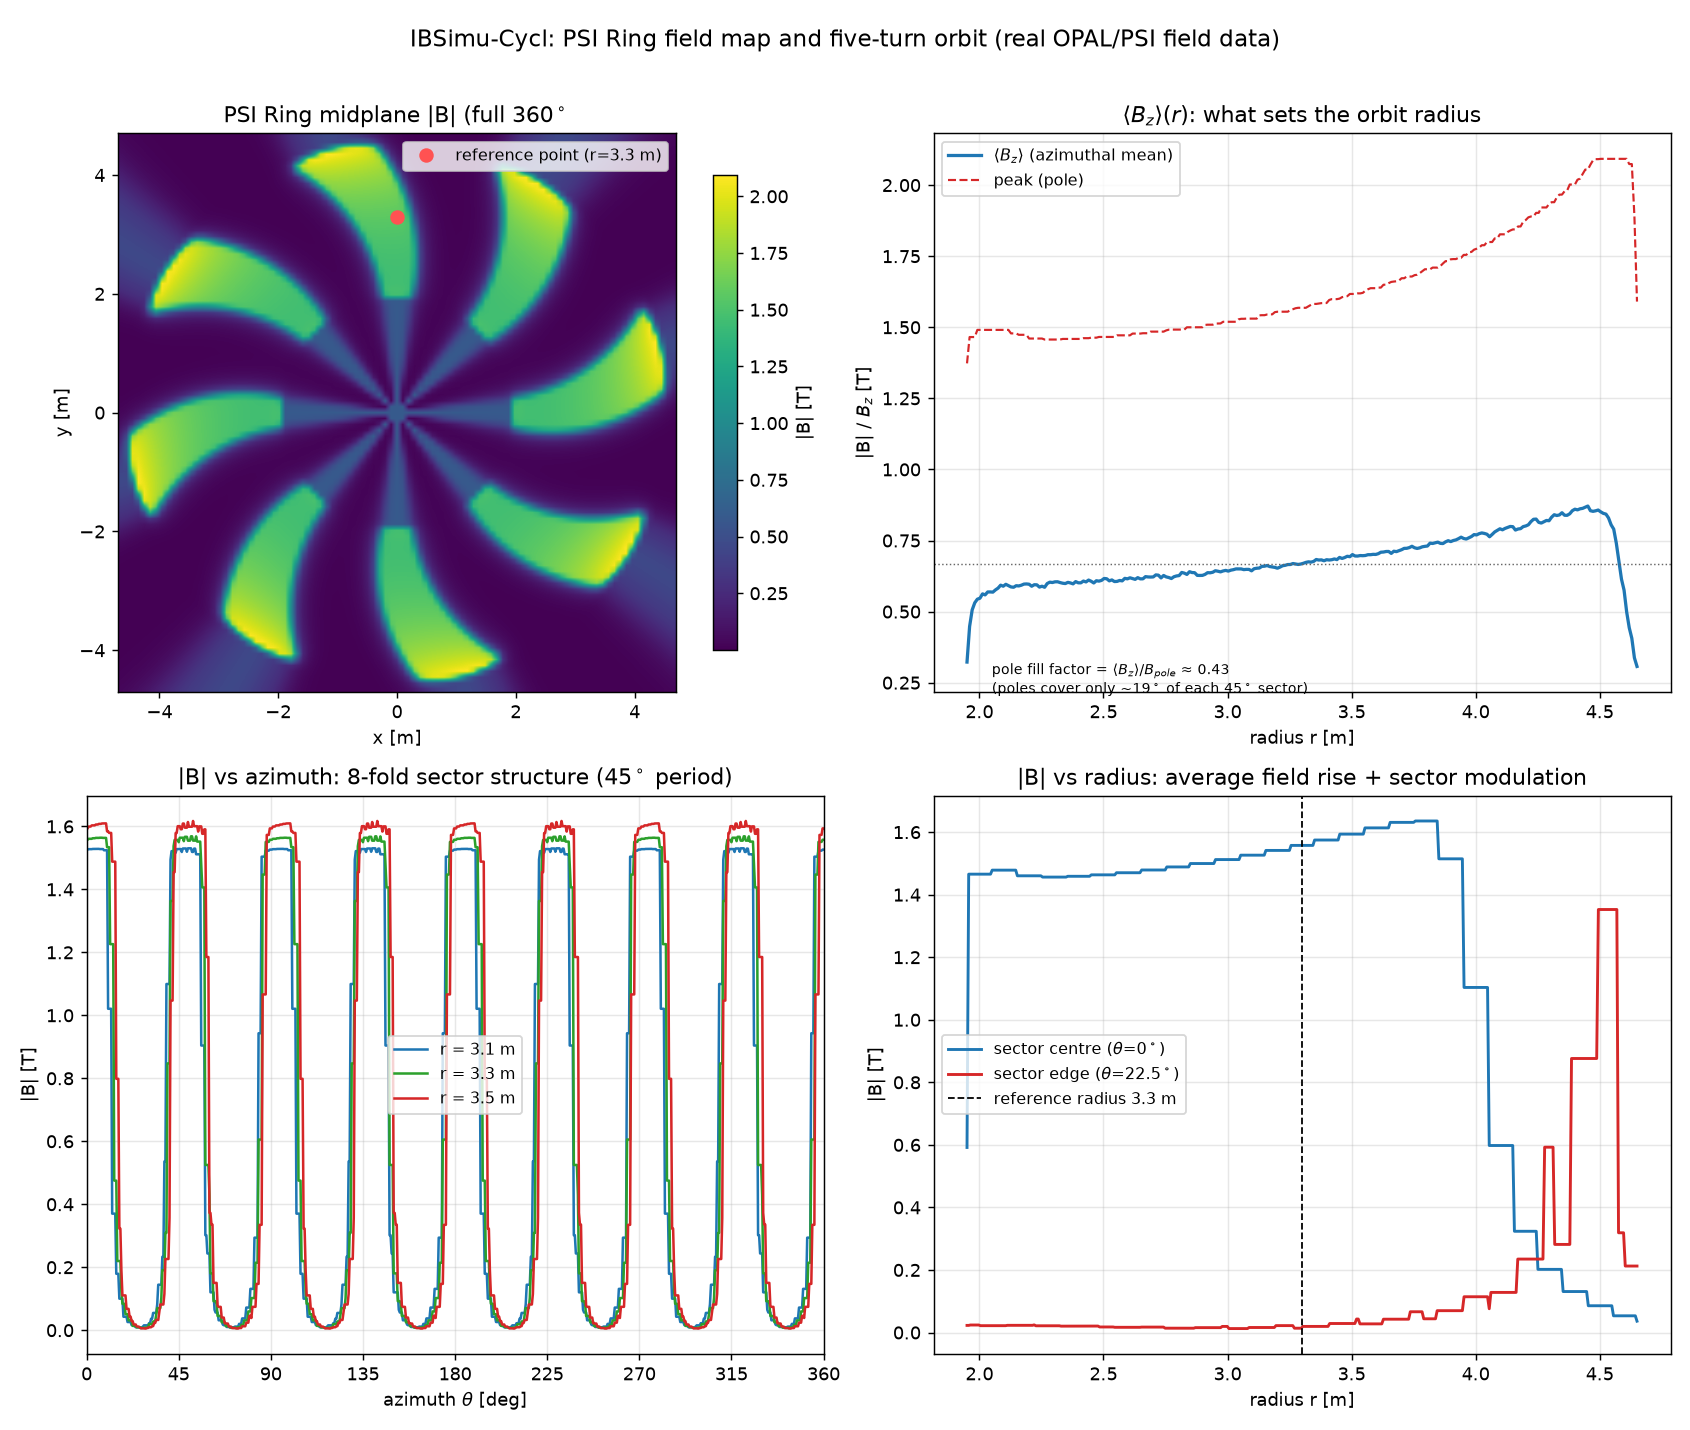
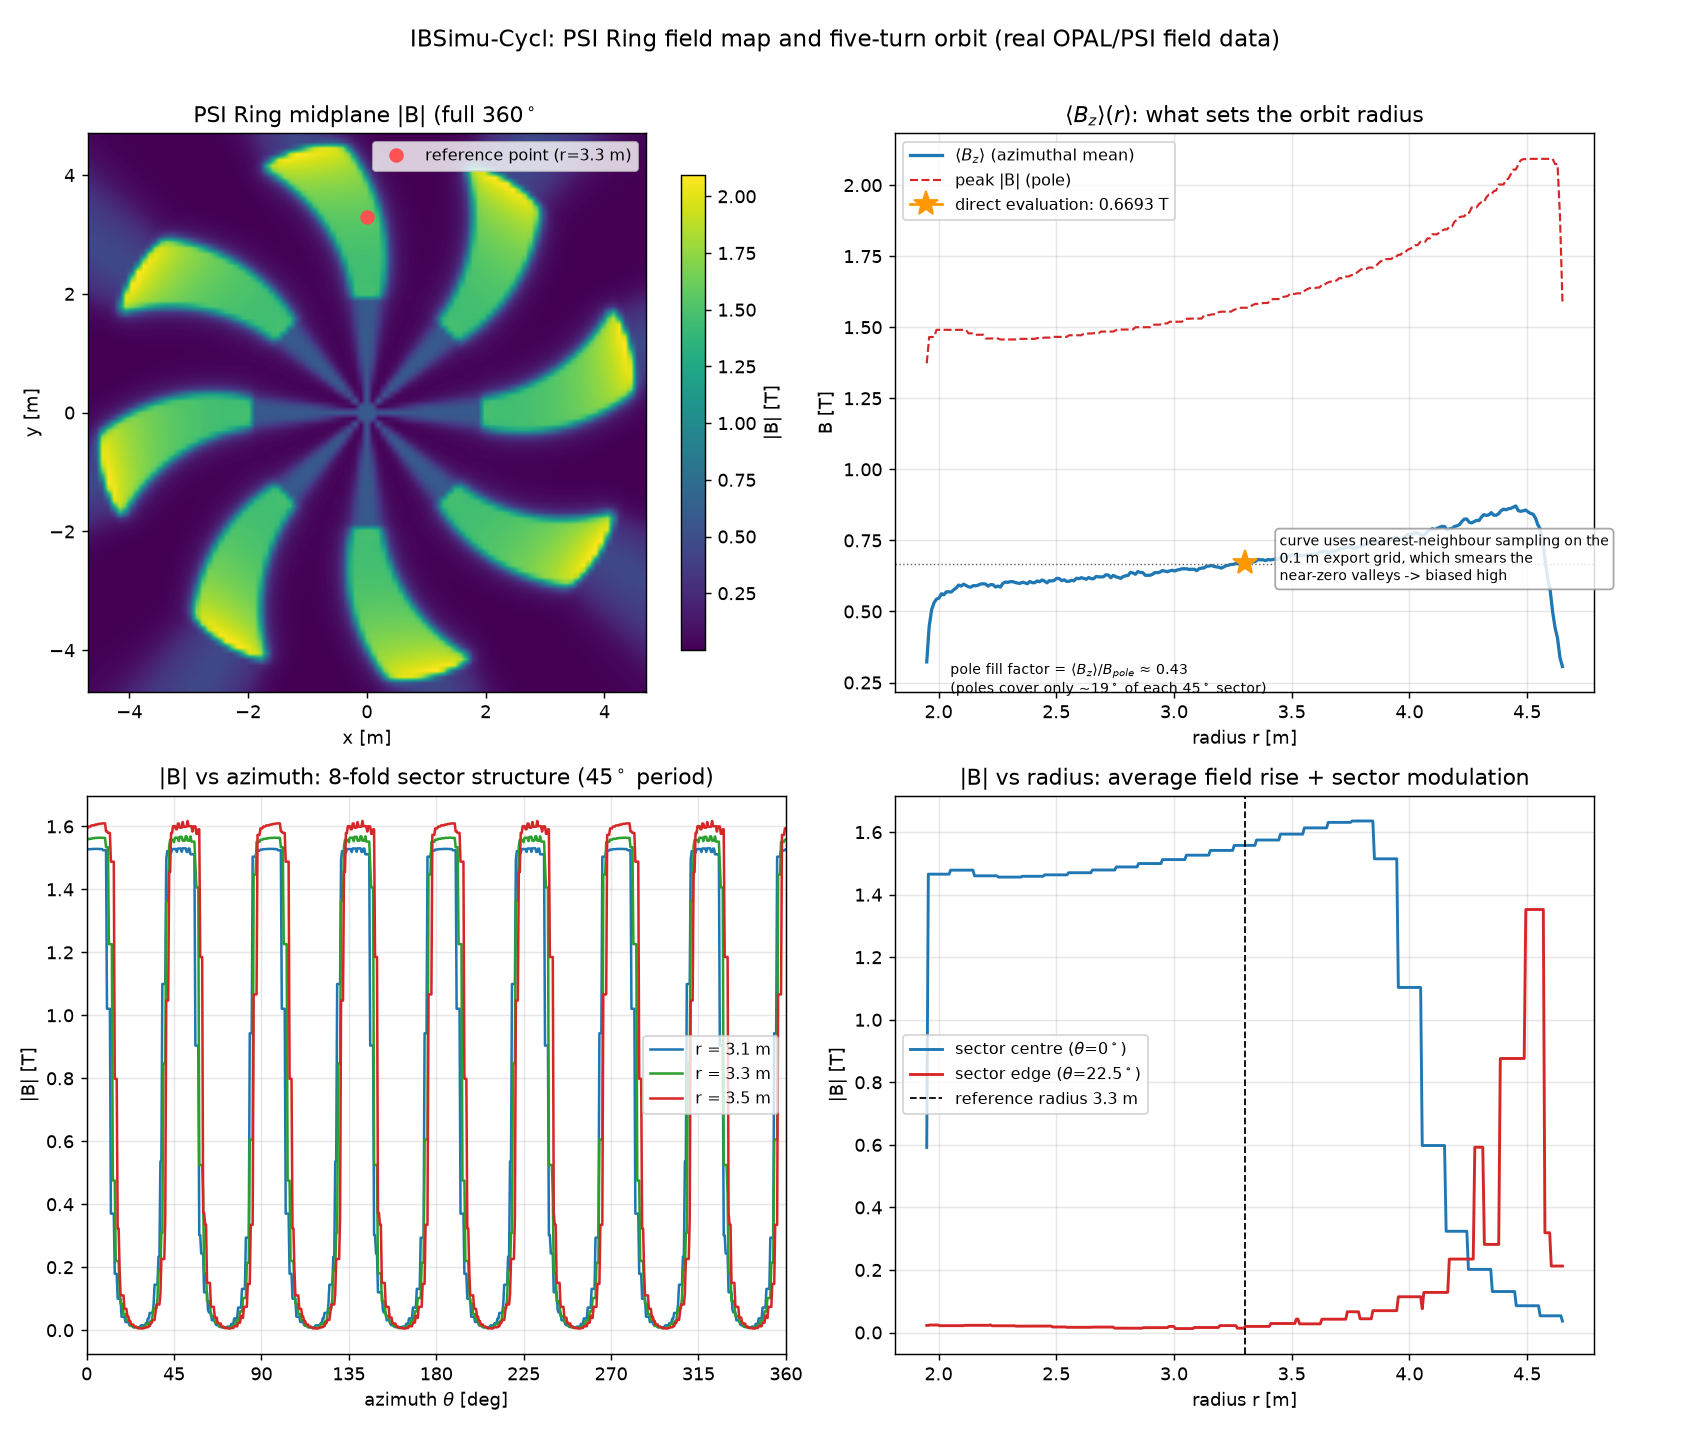
docs(viz): label the field-map <Bz>(r) curve as grid-limited
The azimuthal-average curve is sampled nearest-neighbour from the 0.1 m export grid, which smears the near-zero valleys and biases the mean high (0.777 T vs 0.669 T at r=3.3 m). The direct evaluation from tests/cycl_track is now drawn as a reference marker and the caveat is annotated on the panel, so the two numbers in the repo no longer look contradictory.

diff --git a/examples/cyclotron/plot_field_map.py b/examples/cyclotron/plot_field_map.py
@@ -1,4 +1,6 @@
 #!/usr/bin/env python3
+# NOTE: B_REF_DIRECT is the value tests/cycl_track prints from evaluating the
+# field map directly (not through the 0.1 m export grid).
 """绘制 PSI Ring **整机中场图**（**不含任何粒子轨迹**）。
 
 数据来源是 ``tests/cycl_track`` 导出的标准 VTK XML（见 ``src/io/vtkwriter``）::
@@ -42,6 +44,8 @@ ROOT = Path(__file__).resolve().parents[2]
 sys.path.insert(0, str(ROOT / "python"))
 
 from ibsimu_cycl.vtk_io import read  # noqa: E402
+
+B_REF_DIRECT = 0.6693   # <Bz>(r=3.3 m)，tests/cycl_track 直接在场图上求值
 
 
 def sample_nearest(grid, x0, y0, h, xs, ys):
@@ -110,6 +114,16 @@ def main(argv=None):
     a.plot(rr, bavg, lw=1.8, label=r"$\langle B_z\rangle$ (azimuthal mean)")
     a.plot(rr, bmax, lw=1.2, ls="--", color="#d62728",
            label="peak |B| (pole)")
+    # 直接在场图上求值（tests/cycl_track 的解析判据）作为参照：
+    # 本曲线取自 0.1 m 导出网格的最近邻采样，会把近乎为零的谷区抹平，
+    # 因此平均值偏高（~0.78 vs 0.67 T）。
+    a.plot([r_ref], [B_REF_DIRECT], marker="*", ms=14, color="#ff9800",
+           zorder=6, label=f"direct evaluation: {B_REF_DIRECT} T")
+    a.annotate("curve uses nearest-neighbour sampling on the\n"
+               "0.1 m export grid, which smears the\n"
+               "near-zero valleys -> biased high",
+               xy=(0.55, 0.20), xycoords="axes fraction", fontsize=8,
+               bbox=dict(boxstyle="round", fc="white", ec="0.6", alpha=0.85))
     a.axhline(bavg[np.argmin(np.abs(rr - r_ref))], color="0.4", lw=0.8, ls=":")
     a.text(2.05, bavg[np.argmin(np.abs(rr - r_ref))]*0.32,
            "pole fill factor = $\\langle B_z\\rangle/B_{pole}$ ≈ 0.43\n"
